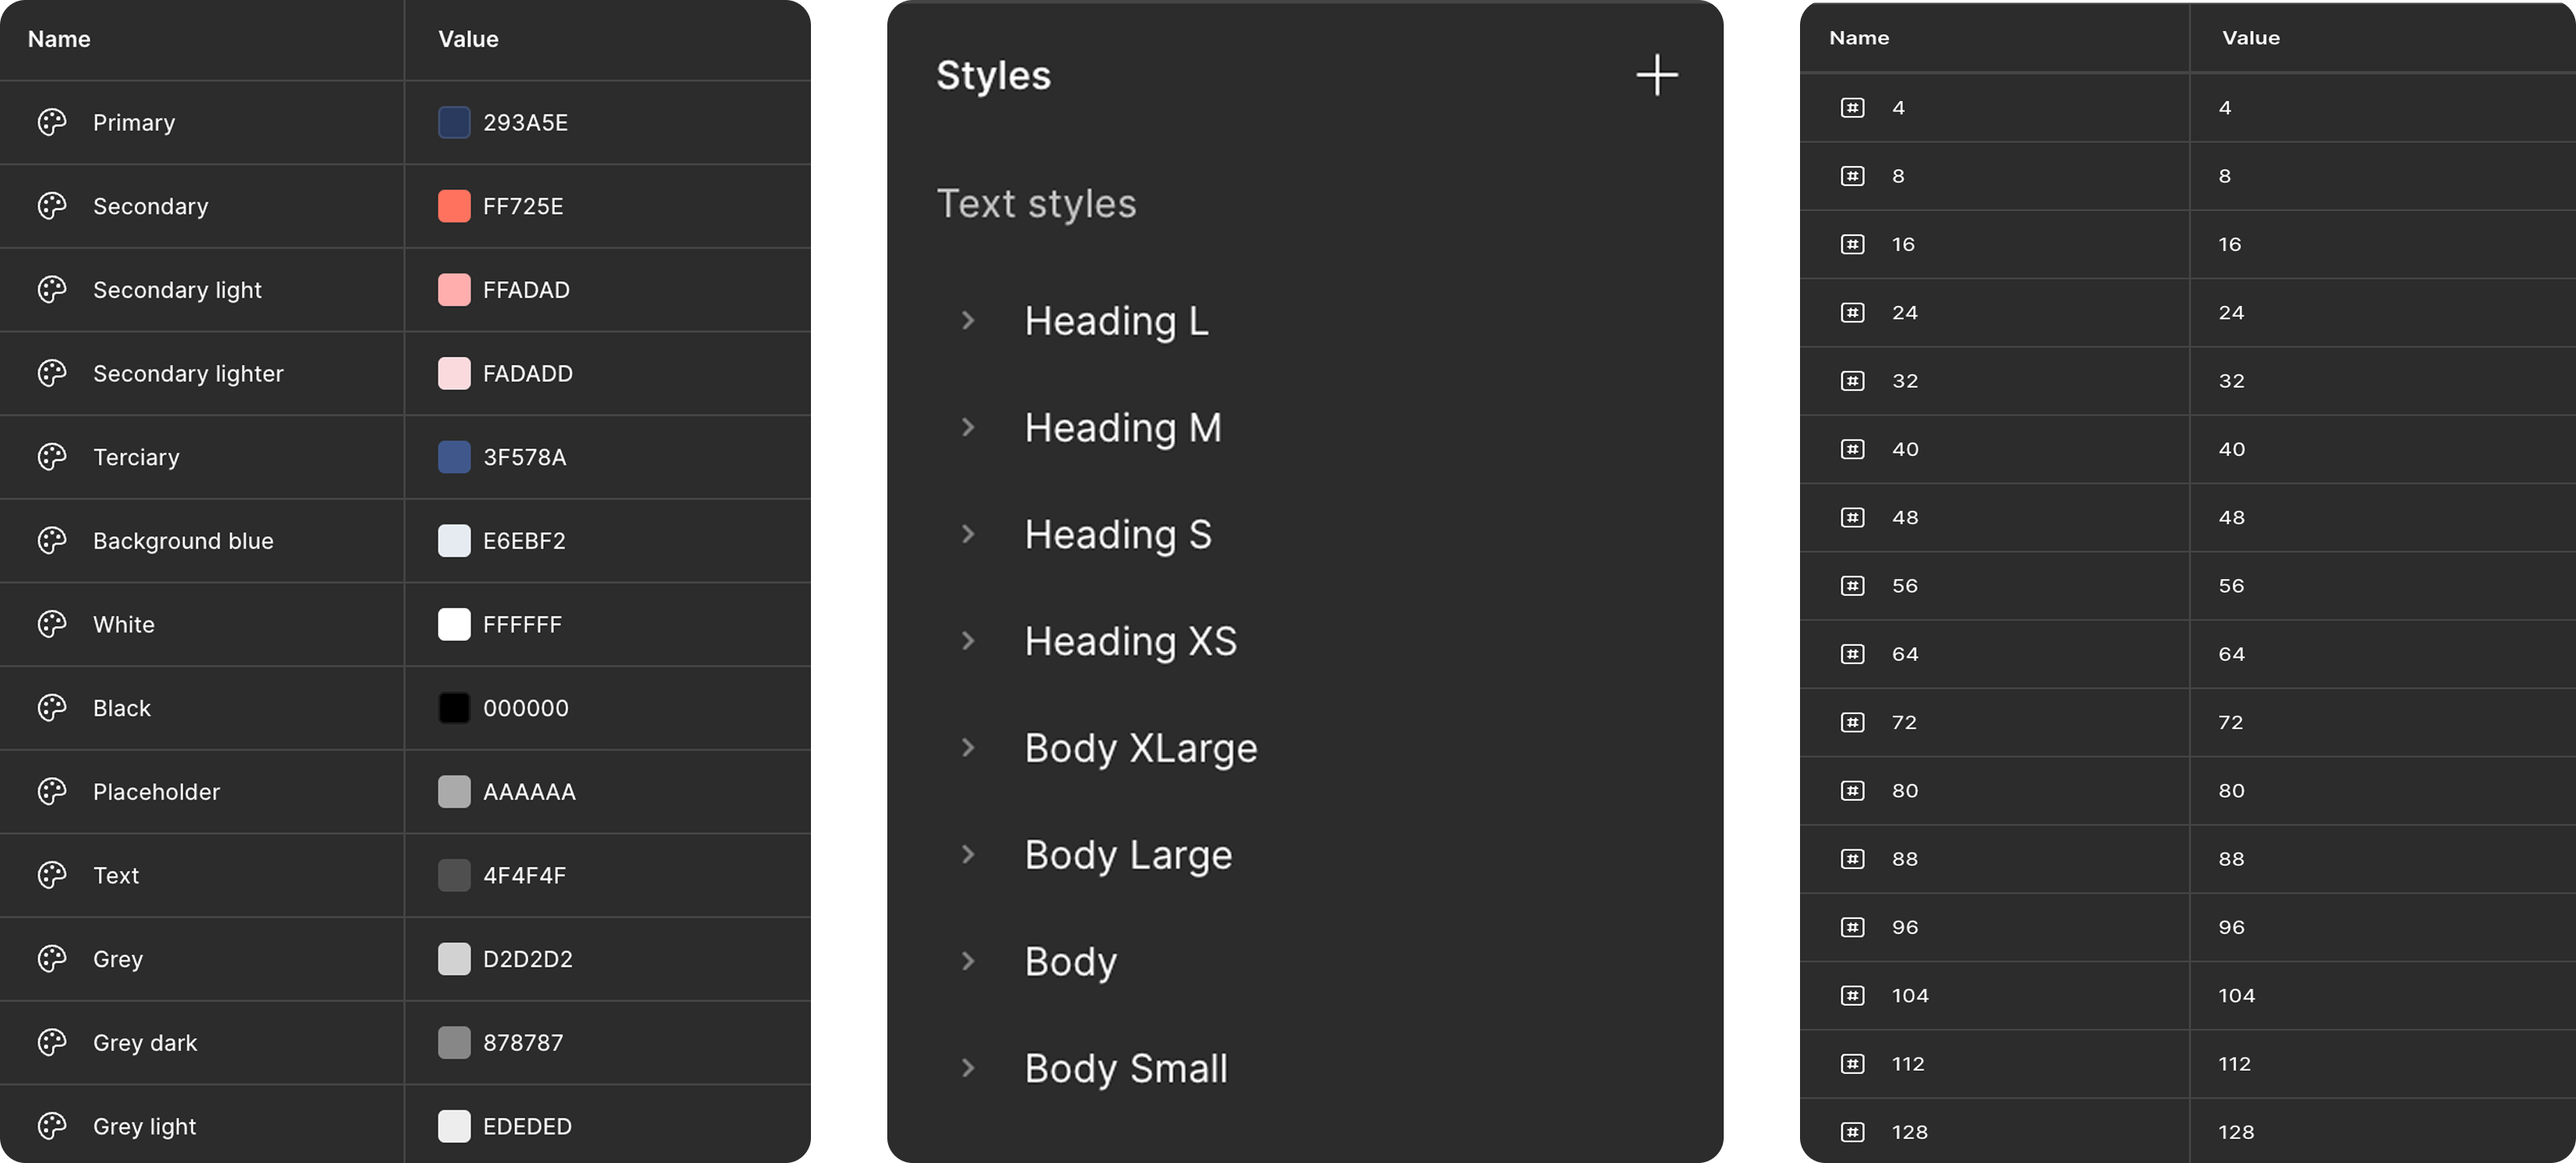
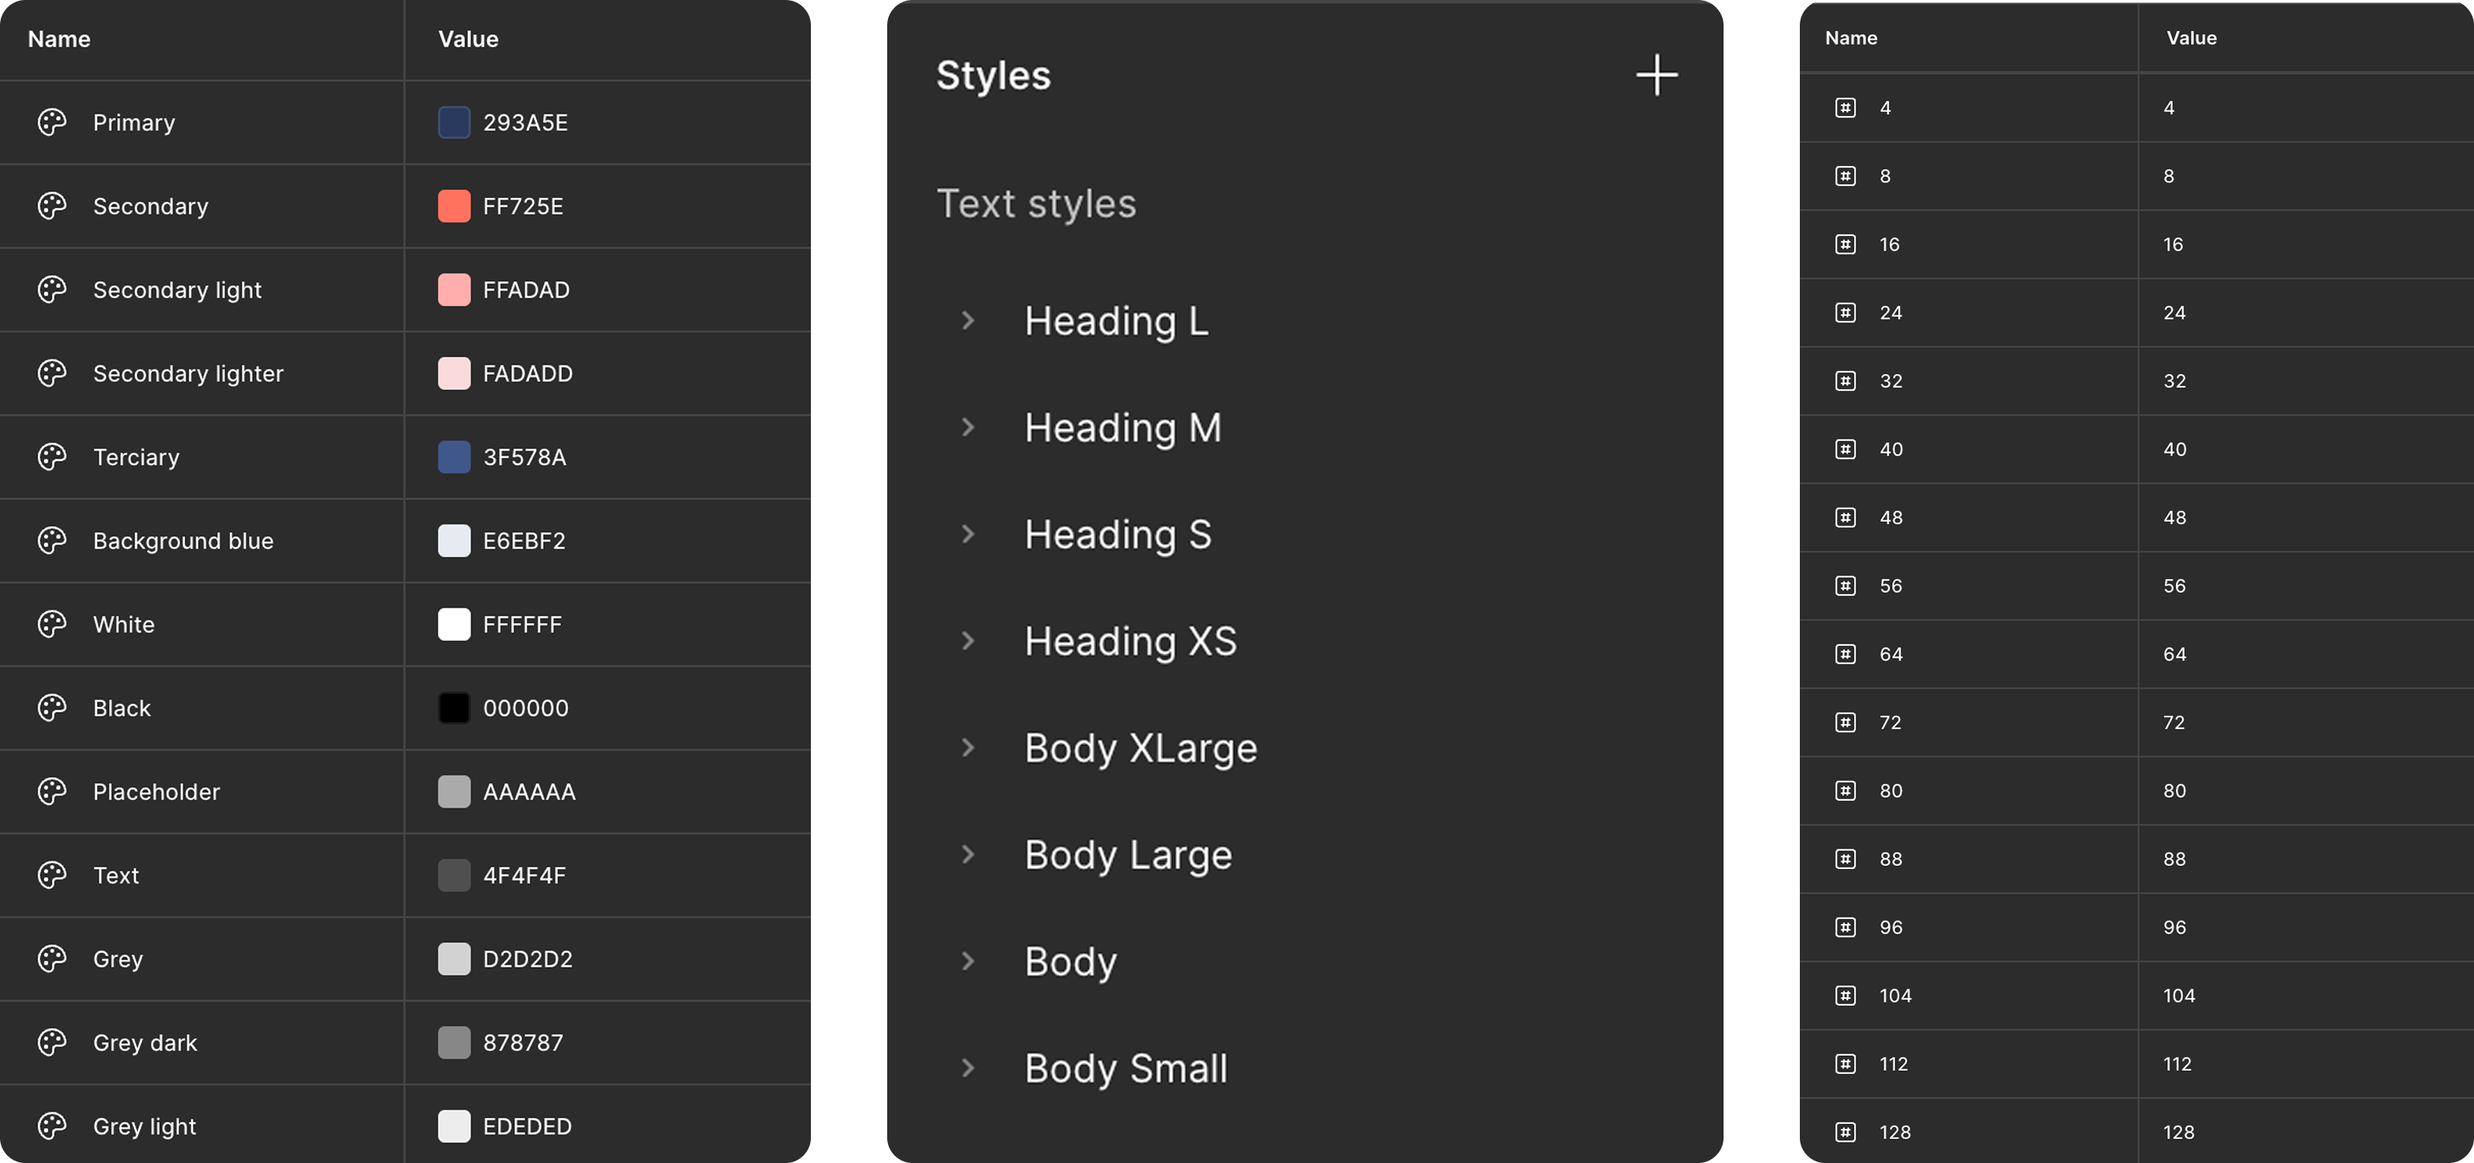
updated project details

diff --git a/portfolioWebsite/src/pages/projectsDetail/projectsDetails.tsx b/portfolioWebsite/src/pages/projectsDetail/projectsDetails.tsx
@@ -247,8 +247,9 @@ function ProjectsDetail() {
               </div>
             )}
 
-            {(project.InformationArchitectureMap || project.wireframe) && (
-              <Card>
+            {(project.InformationArchitectureMap || project.wireframe ||project.iconography || project.images
+            ) && (
+              <Card className={styles.cardProjects}>
                 {project.InformationArchitectureMap && (
                   <div className={styles.containerProject}>
                     <h3>{project.InformationArchitectureMap.title}</h3>
@@ -304,8 +305,8 @@ function ProjectsDetail() {
                     <h3>{project.images.title}</h3>
                     <div className={styles.imagesContainer}>
                       {project.images.img.map((img) => (
-                        <Card className={styles.cardImgs}>
-                        <img src={img} alt={img} className={styles.imagesDSM} /></Card>
+
+                        <img src={img} alt={img} className={styles.imagesDSM} />
                       ))}
                     </div>
                   </div>

diff --git a/portfolioWebsite/src/pages/projectsDetail/projectsDetail.module.css b/portfolioWebsite/src/pages/projectsDetail/projectsDetail.module.css
@@ -239,15 +239,19 @@
   width: 100%;
 }
 
+.cardProjects {
+  background: var(--background-card);
+
+}
 .containerProject {
-  margin: var(--null) var(--lg) var(--lg) var(--lg);
+  margin: var(--null) var(--lg) var(--null) var(--lg);
 }
 .containerProject h3 {
   display: flex;
   justify-content: center;
   margin: 0;
-  padding: var(--md);
-}
+  padding: var(--md) var(--null) var(--xs) var(--null);
+}  
 
 .iconographyContainer {
   display: flex;
@@ -266,6 +270,12 @@
 .iconography {
   width: var(--lg);
   height: auto;
+   filter: invert(0);
+  
+}
+
+[data-theme="light"] .iconography {
+  filter: brightness(0) saturate(100%) invert(24%) sepia(6%) saturate(102%) hue-rotate(201deg) brightness(93%) contrast(83%);
 }
 
 .cardImgs {
@@ -277,10 +287,13 @@
 .imagesContainer {
   display: flex;
   flex-wrap: wrap;
-  gap: var(--xs);
+  gap: var(--md);
+  justify-content: center;
+  margin-bottom:var(--md);
 }
 .imagesDSM {
-width: 100%;
+width: 70%;
+
 }
 
 @media (max-width: 962px) {

diff --git a/portfolioWebsite/src/components/card/card.module.css b/portfolioWebsite/src/components/card/card.module.css
@@ -1,7 +1,7 @@
 .card {
   background-color: var(--background-card);
   border-radius: var(--sm);
-  border: 1px solid var(--border);
+  border: 1px solid var(--border-color);
   display: flex;
   flex-direction: column;
   overflow: hidden;
